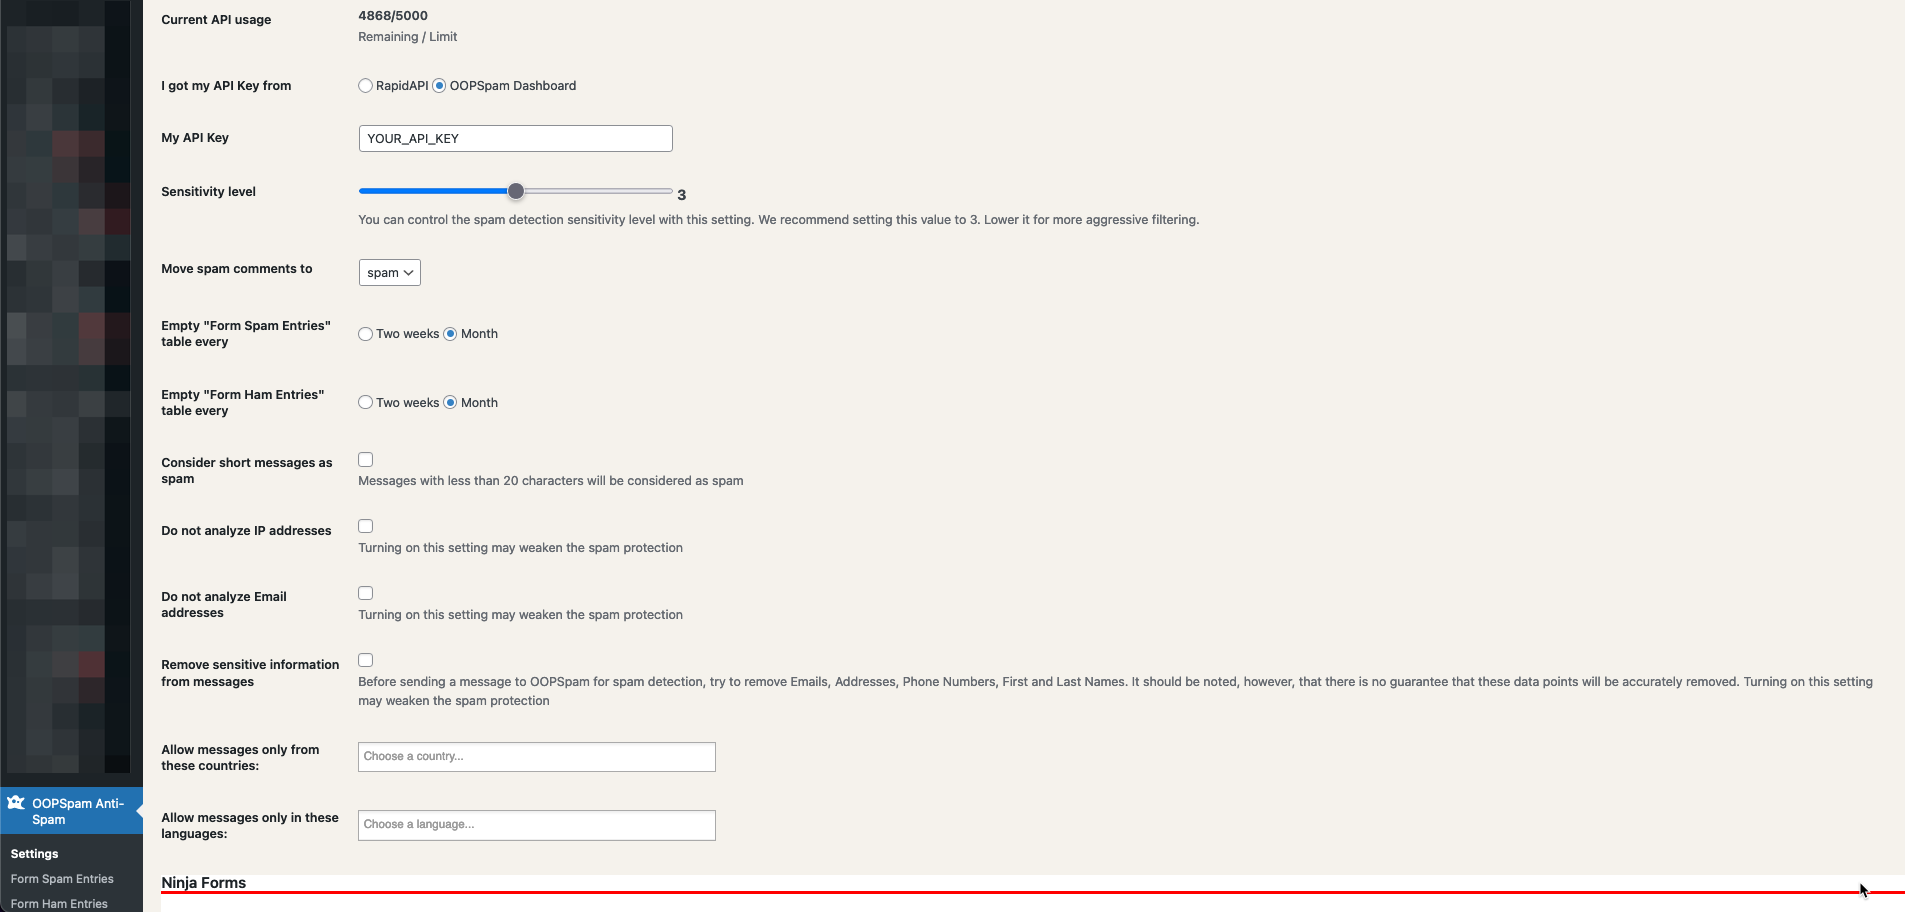
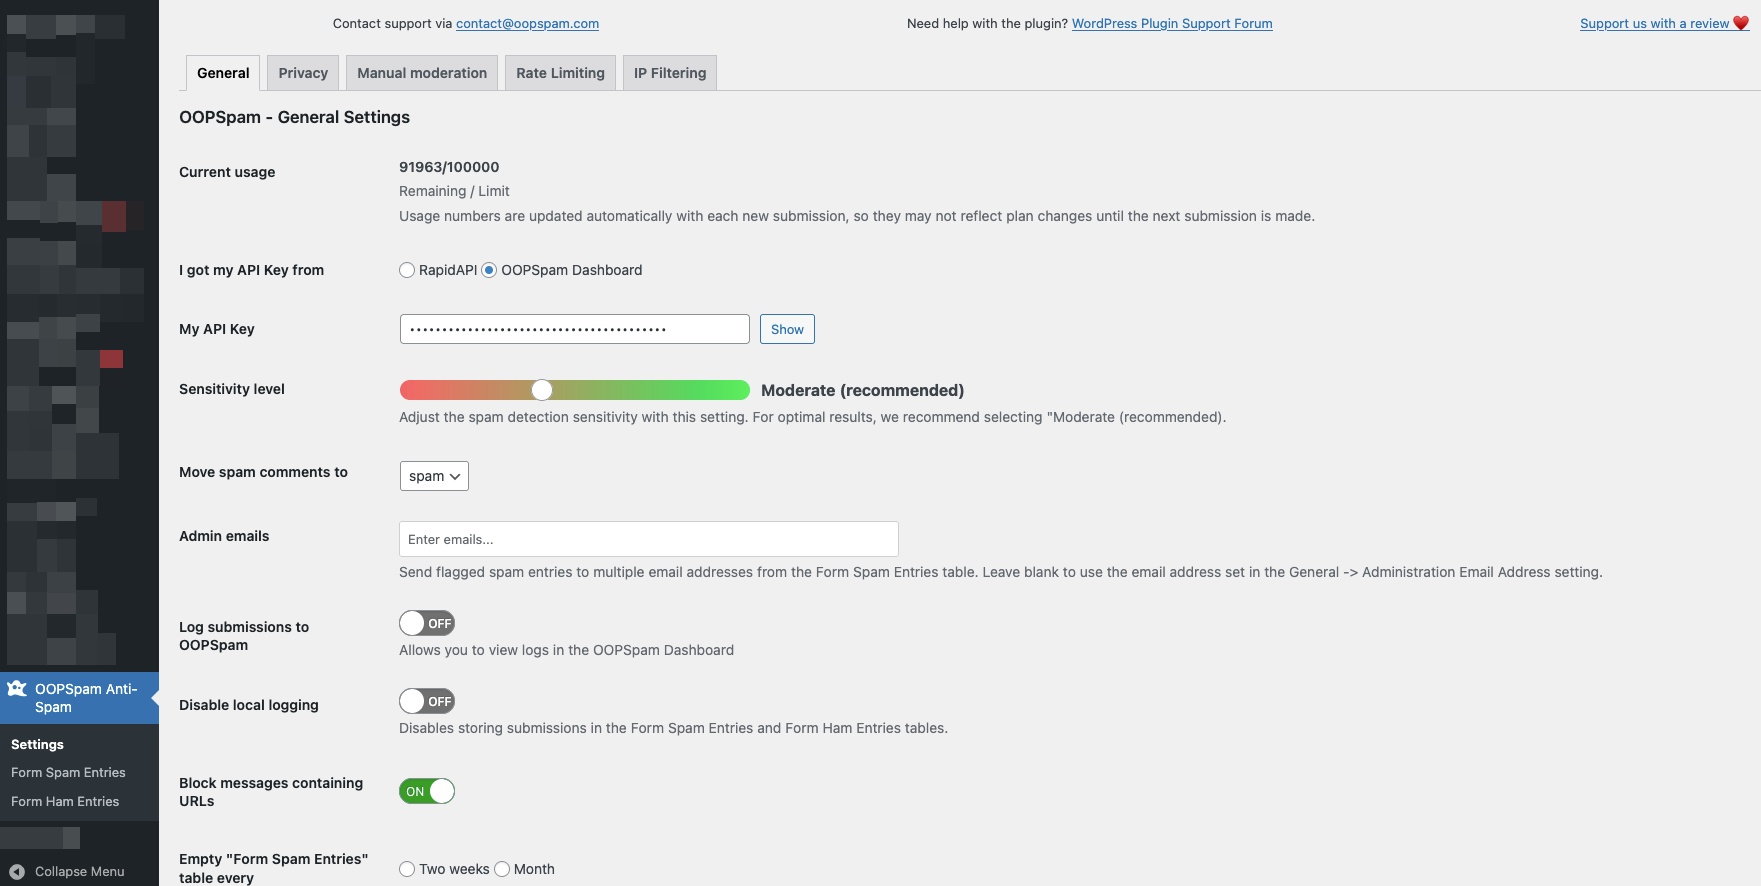
update images

diff --git a/content/wordpress/configuration/_index.en.md b/content/wordpress/configuration/_index.en.md
@@ -34,7 +34,7 @@ To get started quickly, follow these steps:
 {{< /callout >}}
 
 
-### Contact form specific settings
+### Form builder specific settings
 
 When [a supported contact form builder](../#supported-contact-form-builders) is installed, the OOPSpam WordPress plugin will automatically detect it and display relevant settings. 
 For example, if the plugin detects that you have installed the Elementor Page Builder, it will display specific settings for Elementor Forms.
@@ -69,8 +69,6 @@ The OOPSpam WordPress plugin offers two methods to prevent unwanted submissions,
 
 ![Spam filter by country and language](country-language-filter.png)
 
-![Block by country](wp-block-countries.png)
-
 **Allow messages only from these countries**: This setting allows you to specify which countries you want to allow submissions from. By adding countries here, you can quickly limit submissions to only those countries, while still keeping your website accessible worldwide.
 
 **Block messages from these countries**: This setting allows you to specify which countries you want to block submissions from.
@@ -104,6 +102,35 @@ Here we have three settings:
 2. **Do not analyze Email addresses**: When this setting is enabled, the plugin will not send the email address of a submission to our servers for spam detection.
 
 3. **Remove sensitive information from messages**: When this setting is enabled, the plugin will attempt to detect and remove any personal information such as email addresses, street addresses, phone numbers, and first and last names from the message. It is important to note, however, that there is no guarantee that all personal information will be accurately removed.
+
+### IP Filtering
+
+Control form submissions based on the origin of the IP address. These settings help prevent spam from automated systems and suspicious sources.
+
+![IP Filtering Settings](ip-filtering-settings.png)
+
+- **Block VPNs**: Enable this option to block form submissions from known VPN services. This helps prevent spam from users trying to hide their true location.
+
+- **Block Cloud Providers**: When enabled, this setting blocks submissions from over 1,500 known cloud provider IP ranges, including AWS, Google Cloud, Azure, and others. Since legitimate users rarely submit forms from cloud infrastructure, this effectively blocks automated spam from cloud-hosted bots.
+
+### Rate Limiting
+
+Configure rate limits to control submission frequency and prevent spam attacks. These settings help protect your forms from automated submissions and abuse.
+
+![Rate Limiting Settings](rate-limit-settings.png)
+
+- **Enable rate limiting**: Toggle to activate or deactivate all rate limiting features
+- **Max Submissions per IP per Hour**: Limit how many submissions are allowed from a single IP address within one hour
+- **Max Submissions per Email per Hour**: Limit how many submissions are allowed from a single email address within one hour
+- **Block Duration**: Set how long (in hours) an IP or email remains blocked after exceeding the submission limit
+- **Data Clean Up Frequency**: Set how often (in hours) the rate limiting data should be cleaned up to maintain database efficiency
+- **Restrict submissions per Google Ads lead**: Limit form submissions from Google Ads to prevent abuse of ad campaigns. This setting does not require the 'Enable Rate Limiting' option to be active.
+
+#### Submission Timing Control
+
+This setting works independently and does not require the 'Enable Rate Limiting' option to be active:
+
+- **Minimum Time Between Page Load and Submission**: Specify the minimum number of seconds that must elapse between when a page loads and when a form is submitted. Submissions made faster than this threshold will be flagged as spam. Since most human users take at least 2-3 seconds to complete a form, this setting effectively identifies automated submissions while also conserving API calls.
 
 ### Additional settings
 
